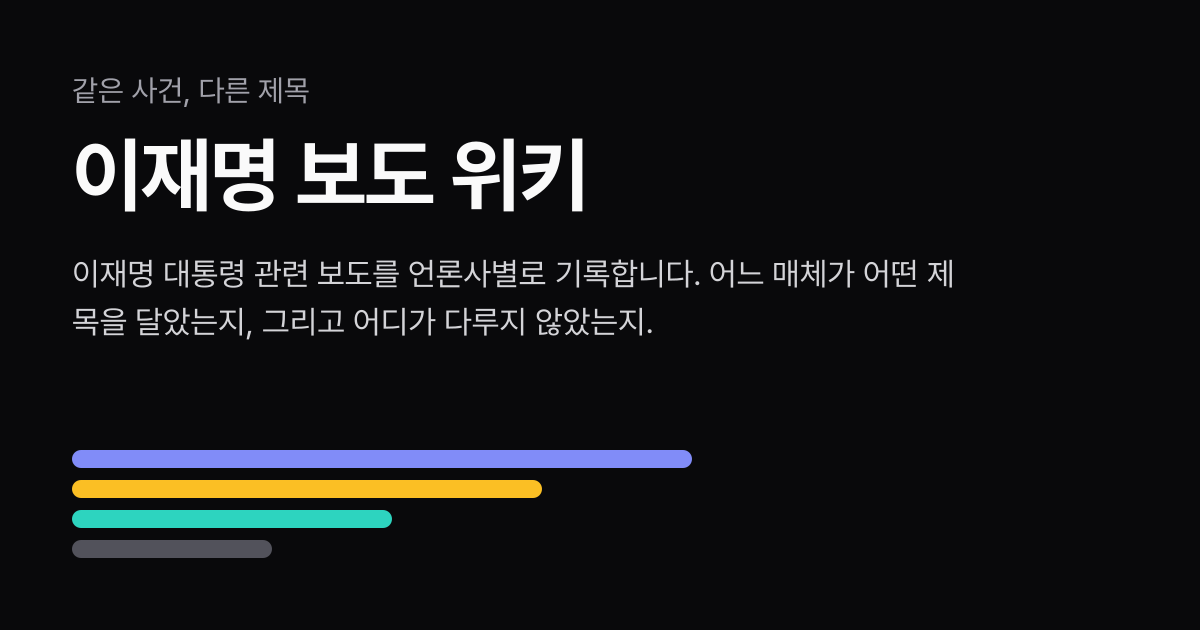
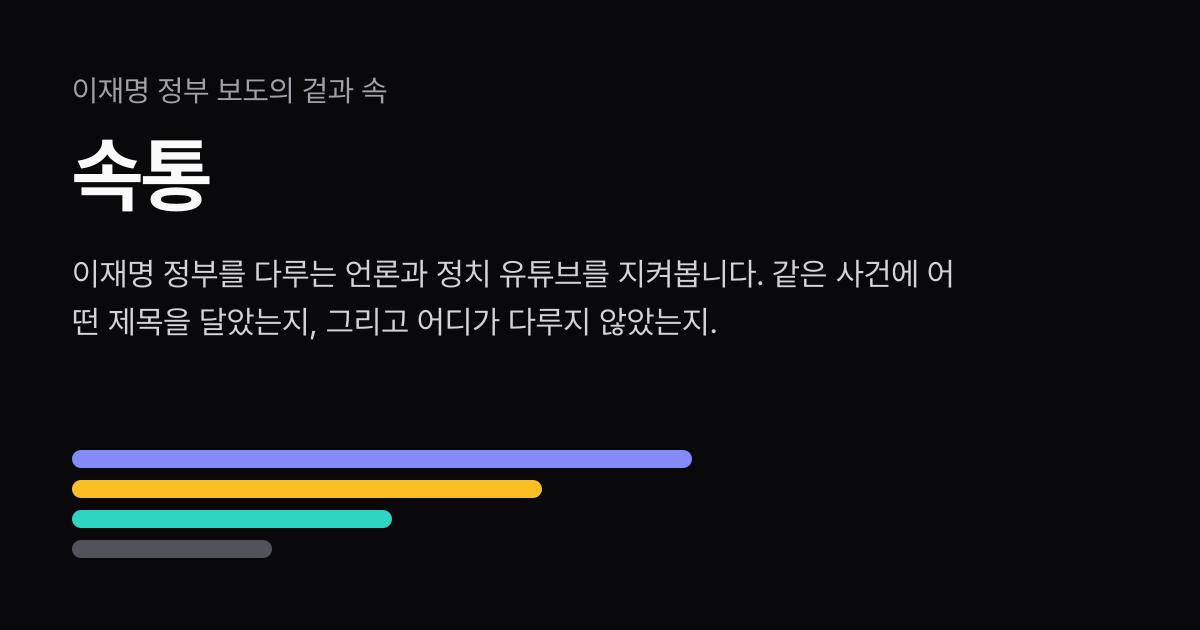
feat(apps): 이재명 보도 위키를 바뀐 이름 속통으로 고친다
자매 앱 카드의 이름·부제·설명을 속통 브랜드 문구로 바꾸고, 카드 이미지를
news.jamtong.kr의 현재 공유 이미지로 교체한다. /apps 설명, 홈 피드 자매 앱 줄,
외부 링크 제목, 업적 보도 안내 문장, 스키마 주석·오류 문구의 옛 이름도 함께 고친다.

Changed region(s): [[0.0617, 0.3921, 0.8017, 0.5429], [0.0617, 0.2111, 0.4933, 0.3317], [0.0617, 0.1206, 0.3392, 0.181]]

diff --git a/src/content/schema.ts b/src/content/schema.ts
@@ -334,18 +334,18 @@ export const achievementSchema = z.object({
    */
   lifeQuestion: z.string().optional(),
   /**
-   * 이 일이 언론에 어떻게 보도됐는지 — 이재명 보도 위키(news.jamtong.kr)의 사건.
+   * 이 일이 언론에 어떻게 보도됐는지 — 속통(news.jamtong.kr)의 사건.
    *
    * 받은 사람의 선입견은 대개 보도에서 온다. 같은 사건에 어느 매체가 어떤 제목을
    * 달았고 어디가 다루지 않았는지를 원자료 옆에 두면, 판단은 읽는 사람이 한다.
-   * 보도 위키는 다른 앱이라 데이터를 읽지 않고 사건 주소만 잇는다.
+   * 속통은 다른 앱이라 데이터를 읽지 않고 사건 주소만 잇는다.
    */
   coverage: z
     .array(
       z.object({
         title: z.string(),
         date: z.string().regex(/^\d{4}-\d{2}-\d{2}$/, "date는 YYYY-MM-DD 형식이어야 한다"),
-        url: z.string().url().startsWith("https://news.jamtong.kr/", "보도 위키의 사건 주소만 잇는다"),
+        url: z.string().url().startsWith("https://news.jamtong.kr/", "속통의 사건 주소만 잇는다"),
       }),
     )
     .default([]),

diff --git a/src/content/apps.ts b/src/content/apps.ts
@@ -42,10 +42,10 @@ const raw: z.input<typeof sisterAppSchema>[] = [
   },
   {
     id: "news",
-    name: "이재명 뉴스",
-    tagline: "보도 위키",
+    name: "속통",
+    tagline: "이재명 정부 보도의 겉과 속",
     description:
-      "이재명 대통령과 관련된 보도를 언론사와 유튜브 채널별로 모아, 같은 사건을 어디가 어떻게 다뤘는지 나란히 보여 주는 뉴스 위키입니다.",
+      "이재명 정부를 다루는 언론과 정치 유튜브 채널을 지켜봅니다. 같은 사건에 누가 어떤 제목을 달았는지, 옹호하는 듯한 제목 속에 어떤 인식을 심는지, 어디가 다루지 않았는지 원문 그대로 기록합니다.",
     url: "https://news.jamtong.kr",
     image: "/images/apps/news.png",
   },

diff --git a/src/features/achievement/QuickCheck.tsx b/src/features/achievement/QuickCheck.tsx
@@ -86,7 +86,7 @@ export function QuickCheck({ achievement }: { achievement: Achievement }) {
             <p className="font-semibold text-ink">보도</p>
             <p className="mt-1 text-smoke">
               이 일을 언론이 어떻게 다뤘는지 — 어느 매체가 어떤 제목을 달았고 어디가 다루지
-              않았는지 — 는 이재명 보도 위키에 따로 모아 둡니다.
+              않았는지 — 는 속통에 따로 모아 둡니다.
             </p>
             <ul className="mt-2 space-y-1">
               {coverage.map((c) => (

diff --git a/src/content/links.ts b/src/content/links.ts
@@ -40,7 +40,7 @@ export type SiteLink = z.infer<typeof siteLinkSchema>;
 const raw: z.input<typeof siteLinkSchema>[] = [
   {
     id: "news-jamtong",
-    title: "이재명 보도 위키",
+    title: "속통 — 이재명 정부 보도의 겉과 속",
     url: "https://news.jamtong.kr",
     description:
       "같은 사건에 어느 매체가 어떤 제목을 달았는지, 그리고 어디가 다루지 않았는지를 언론사별로 모아 기록합니다.",

diff --git a/src/app/apps/page.tsx b/src/app/apps/page.tsx
@@ -8,7 +8,7 @@ import { BottomNav } from "@/features/app/BottomNav";
 
 export const metadata: Metadata = {
   title: "자매 앱",
-  description: "잼통과 같은 곳에서 만드는 앱을 모았습니다. 임통, 통통, 이재명 뉴스, 잼통 신고 센터, 잼통 Voice.",
+  description: "잼통과 같은 곳에서 만드는 앱을 모았습니다. 임통, 통통, 속통, 잼통 신고 센터, 잼통 Voice.",
   alternates: { canonical: "/apps" },
 };
 

diff --git a/src/features/home/HomeFeed.tsx b/src/features/home/HomeFeed.tsx
@@ -360,7 +360,7 @@ export function HomeFeed({
             잼통 자매 앱
           </span>
           <span className="mt-1 block text-[12px] leading-relaxed text-ash">
-            임통 · 통통 · 이재명 뉴스 · 잼통 신고 센터 · 잼통 Voice
+            임통 · 통통 · 속통 · 잼통 신고 센터 · 잼통 Voice
           </span>
         </span>
         <span aria-hidden="true" className="shrink-0 text-[13px] text-ash">
